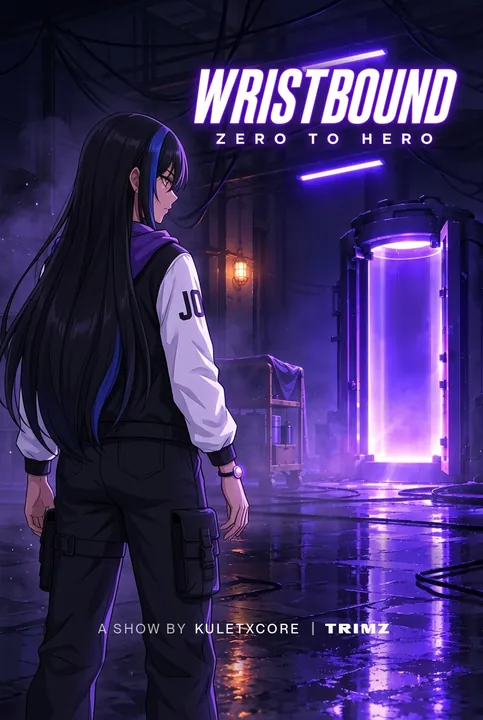
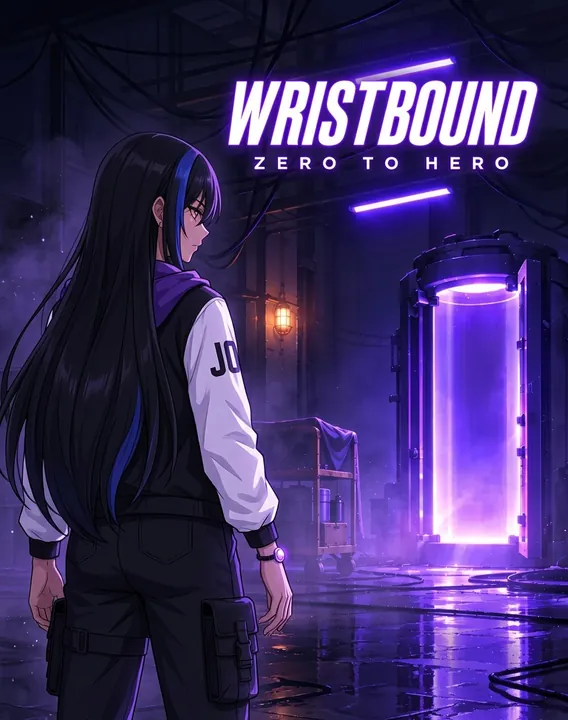
Front page audit fixes: focus rings, console header, cover sizes, posters
- Buttons and tabbable areas get the same focus ring as links; story cards draw it inside the card
- Cold-open title bar truncates instead of pushing the world buttons out; .exe reads at full mute
- Story covers ship 420px copies with srcset and set width/height (home images 1157 to 650 KiB)
- Footer logo and the Dealer's mark load lazily
- Acolytes Trimz poster from the IsekaiZero original (848x1264, no watermark)
- Wristbound Trimz poster cropped above the "A show by KuletXCore | TRIMZ" line

Claude-Session: https://claude.ai/code/session_017vDDw5Np6XLQTPmsqGpkok

diff --git a/src/routes/index.tsx b/src/routes/index.tsx
@@ -209,6 +209,8 @@ function MotionToggle() {
 }
 
 // On phones the worlds sit in a swipeable shelf, not a seven-screen stack; sm and up keep the grid
+// Story covers also ship a 420px copy beside the original, for the shelf
+const small = (src: string) => src.replace(/\.webp(\?.*)?$/, '-420.webp$1')
 const SLOT = 'w-[min(80vw,22rem)] shrink-0 snap-start sm:w-auto sm:shrink'
 const pad2 = (n: number) => String(n).padStart(2, '0')
 
@@ -336,11 +338,15 @@ function Stories() {
                 onMouseLeave={() => cool(i)}
                 onFocus={() => setHot(i)}
                 onBlur={() => cool(i)}
-                className="group flex h-full flex-col border border-line bg-panel hover:border-neon"
+                className="group flex h-full flex-col border border-line bg-panel hover:border-neon focus-visible:outline-offset-[-3px]"
               >
                 <div className="cover relative aspect-[3/4] overflow-hidden border-b border-line">
                   <img
                     src={s.cover}
+                    srcSet={`${small(s.cover)} 420w, ${s.cover} 900w`}
+                    sizes="(min-width: 640px) 350px, 80vw"
+                    width={600}
+                    height={800}
                     alt={`Cover art for ${s.title}`}
                     loading={i < 3 ? 'eager' : 'lazy'}
                     className="h-full w-full object-cover"
@@ -394,7 +400,9 @@ function Stories() {
                   {STORIES.map((s, i) => (
                     <img
                       key={s.slug}
-                      src={s.cover}
+                      src={small(s.cover)}
+                      width={420}
+                      height={560}
                       alt=""
                       loading="lazy"
                       className={`h-full w-full object-cover opacity-35 grayscale transition duration-500 group-hover:opacity-60 group-hover:grayscale-0 ${i === 0 ? 'row-span-2' : ''}`}
@@ -554,6 +562,8 @@ function Trimz() {
               <img
                 key={`poster-${t.slug}`}
                 src={t.poster}
+                width={720}
+                height={1080}
                 alt={`Poster for ${t.title}`}
                 loading="lazy"
                 decoding="async"

diff --git a/src/components/cold-open.tsx b/src/components/cold-open.tsx
@@ -177,10 +177,10 @@ export function ColdOpen({ slug, onSlug }: { slug: DemoWorld['slug']; onSlug: (s
     >
       {/* Title bar, with the other world one tap away */}
       <div className="flex items-center gap-2 border-b border-line bg-panel/70 px-3 py-2">
-        <p className="font-mono text-[11px] text-mute">
-          storyteller<span className="text-mute/60">.exe</span> <span className="text-neon">--cold-open</span>
+        <p className="min-w-0 truncate font-mono text-[11px] text-mute">
+          storyteller<span className="text-mute">.exe</span> <span className="text-neon">--cold-open</span>
         </p>
-        <span className="ml-auto flex items-center gap-1">
+        <span className="ml-auto flex shrink-0 items-center gap-1">
           {DEMO_WORLDS.map((w) => {
             const on = w.slug === slug
             return (
@@ -211,7 +211,7 @@ export function ColdOpen({ slug, onSlug }: { slug: DemoWorld['slug']; onSlug: (s
         role="log"
         aria-live="polite"
         aria-label="Scene transcript"
-        className="relative h-[19rem] overflow-y-auto px-4 py-4 font-mono text-[13px] leading-relaxed focus:outline-none focus-visible:ring-1 focus-visible:ring-neon sm:h-[21rem] sm:text-sm"
+        className="relative h-[19rem] overflow-y-auto px-4 py-4 font-mono text-[13px] leading-relaxed focus-visible:outline-none focus-visible:ring-1 focus-visible:ring-neon sm:h-[21rem] sm:text-sm"
       >
         <p className="flex items-center gap-2 font-gamer text-[10px] uppercase">
           <span className={RATING_CLASS(story.rating)}>{story.rating}</span>

diff --git a/src/components/site.tsx b/src/components/site.tsx
@@ -3,8 +3,8 @@ import { LINKS } from '#/data/content'
 import { openControls } from '#/components/controls-sheet'
 import { openFinder } from '#/components/world-finder'
 
-export function Logo({ className = 'h-8' }: { className?: string }) {
-  return <img src="/brand/kuletxai-480.webp" srcSet="/brand/kuletxai-480.webp 480w, /brand/kuletxai-1200.webp 1200w" sizes="240px" alt="KuletXAI" width={480} height={165} className={`w-auto ${className}`} />
+export function Logo({ className = 'h-8', lazy = false }: { className?: string; lazy?: boolean }) {
+  return <img src="/brand/kuletxai-480.webp" srcSet="/brand/kuletxai-480.webp 480w, /brand/kuletxai-1200.webp 1200w" sizes="240px" alt="KuletXAI" width={480} height={165} loading={lazy ? 'lazy' : undefined} className={`w-auto ${className}`} />
 }
 
 export function Header() {
@@ -62,7 +62,7 @@ export function Footer() {
     <footer className="mx-auto max-w-6xl px-4 py-10 sm:px-6">
       <div className="flex flex-col gap-6 sm:flex-row sm:items-end sm:justify-between">
         <div>
-          <Logo className="h-12" />
+          <Logo className="h-12" lazy />
           <p className="mt-2 text-sm text-mute">AI storytelling. © {new Date().getFullYear()} KuletX.</p>
         </div>
         <nav aria-label="Elsewhere" className="flex flex-wrap items-center gap-x-2 font-gamer text-xs [&>a]:px-1">

diff --git a/src/components/world-dealer.tsx b/src/components/world-dealer.tsx
@@ -157,7 +157,7 @@ export function WorldDealer() {
                   />
                 )}
                 <div className="grid-bg absolute inset-0 opacity-60" aria-hidden />
-                <img src="/brand/kx-mark.webp" alt="" aria-hidden className="relative w-28 opacity-90 sm:w-36" />
+                <img src="/brand/kx-mark.webp" alt="" width={240} height={224} loading="lazy" aria-hidden className="relative w-28 opacity-90 sm:w-36" />
                 <p className="pixel relative mt-6 font-pixel text-2xl text-ink sm:text-3xl">
                   {phase === 'shuffling' ? 'SHUFFLING' : 'AWAITING DEAL'}
                 </p>

diff --git a/src/styles.css b/src/styles.css
@@ -167,7 +167,9 @@ body {
   transform: scale(1.04);
 }
 
-a:focus-visible {
+a:focus-visible,
+button:focus-visible,
+[tabindex]:focus-visible {
   outline: 2px solid var(--color-neon);
   outline-offset: 3px;
 }
